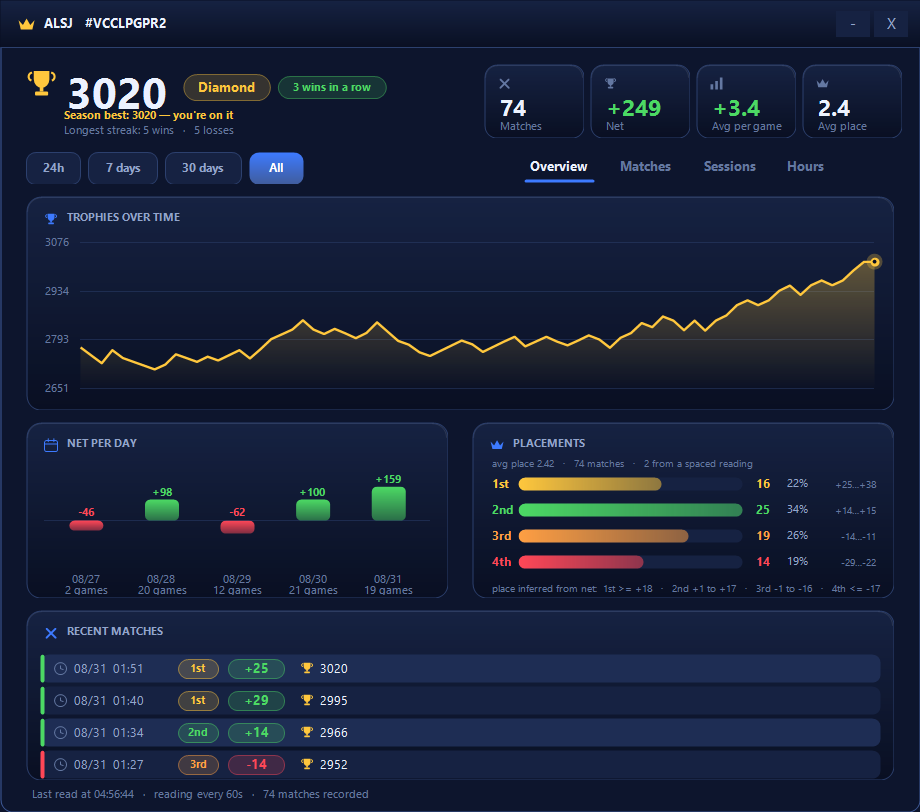
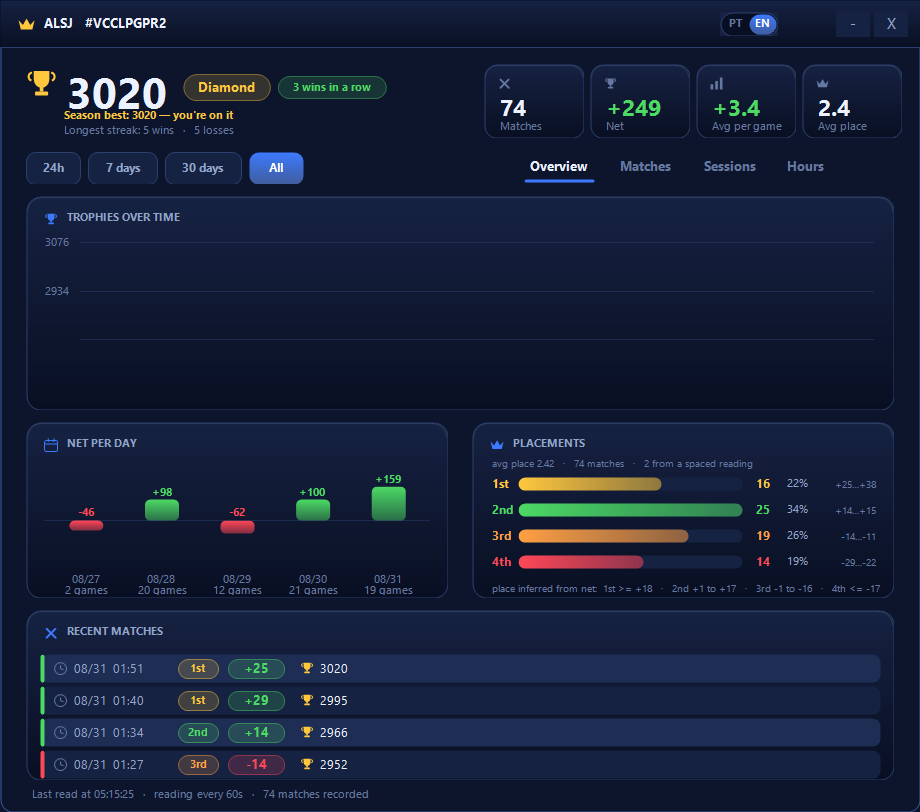
Visible PT | EN toggle, and fix the scope collision it exposed (#2)
The language switch existed only as Ctrl+L and a tray menu item, neither of
which is visible. A two-segment toggle now sits in the title bar with the
active language lit.

Wiring it up surfaced a real defect. PowerShell resolves an unqualified
variable by walking the call stack, not the lexical scope where the function
was written. Every MtUi handler names its sender $s, and variable names are
case-insensitive, so the app state $S was shadowed: Update-MtMenuText read
$S.Paused off a Panel and threw "property 'Paused' not found" — the same class
of error seen earlier as "property 'Net' not found".

Every value the functions read from script scope is now explicitly qualified,
and $S / $P are gone: they were one letter away from the $s and $p that every
handler uses. Two regression checks guard it.

Exceptions inside WinForms handlers now log the PowerShell stack with function
and line instead of raising a bare dialog — that is what located this one.

Claude-Session: https://claude.ai/code/session_017wXEdru7dQRk79n2rVpQjv

diff --git a/README.md b/README.md
@@ -59,9 +59,9 @@ Every block re-filters at once through the period pills at the top
 ## English and Portuguese
 
 The interface ships in both. It follows the Windows display language on first
-run, and you switch any time with **Ctrl+L** in the panel, or from the tray menu
-(right-click the tray icon, then *Mudar para português* / *Switch to English*).
-The choice is remembered across restarts.
+run, and you switch any time with the **PT | EN** toggle in the title bar,
+with **Ctrl+L**, or from the tray menu. The choice is remembered across
+restarts.
 
 ![Portuguese](docs/pt-BR/overview.png)
 

diff --git a/README.pt-BR.md b/README.pt-BR.md
@@ -87,9 +87,9 @@ os blocos de uma vez.
 ## Português e inglês
 
 A interface vem nos dois idiomas. Ela segue o idioma do Windows na primeira
-execução, e dá para trocar a qualquer momento com **Ctrl+L** no painel, ou pelo
-menu da bandeja (botão direito no ícone, depois *Switch to English* / *Mudar
-para português*). A escolha fica gravada e sobrevive ao reinício.
+execução, e dá para trocar a qualquer momento pelo botão **PT | EN** na barra
+de título, por **Ctrl+L**, ou pelo menu da bandeja. A escolha fica gravada e
+sobrevive ao reinício.
 
 ## Atalhos e exportação
 
